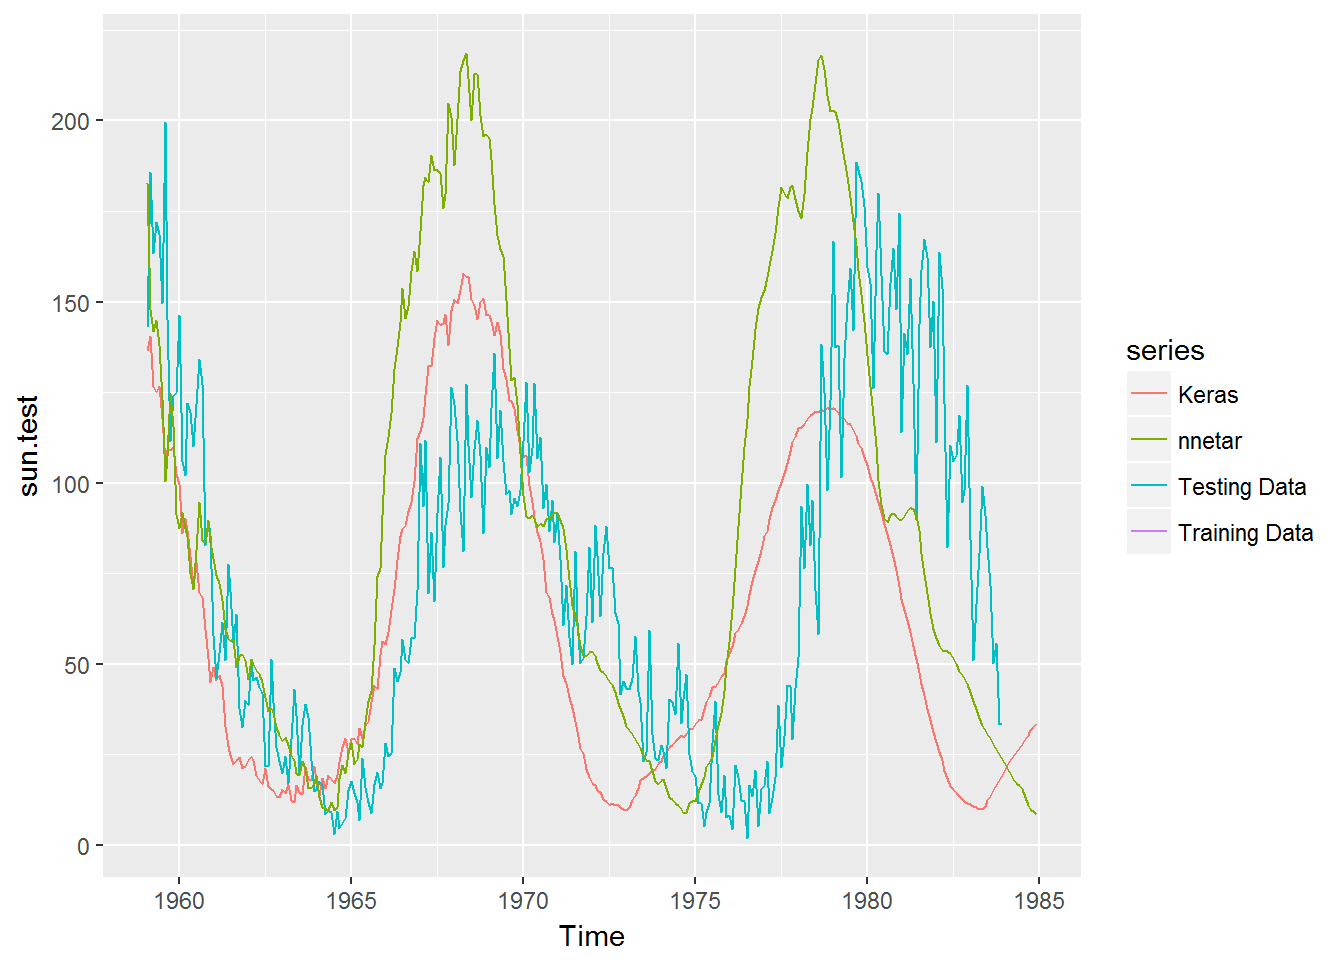
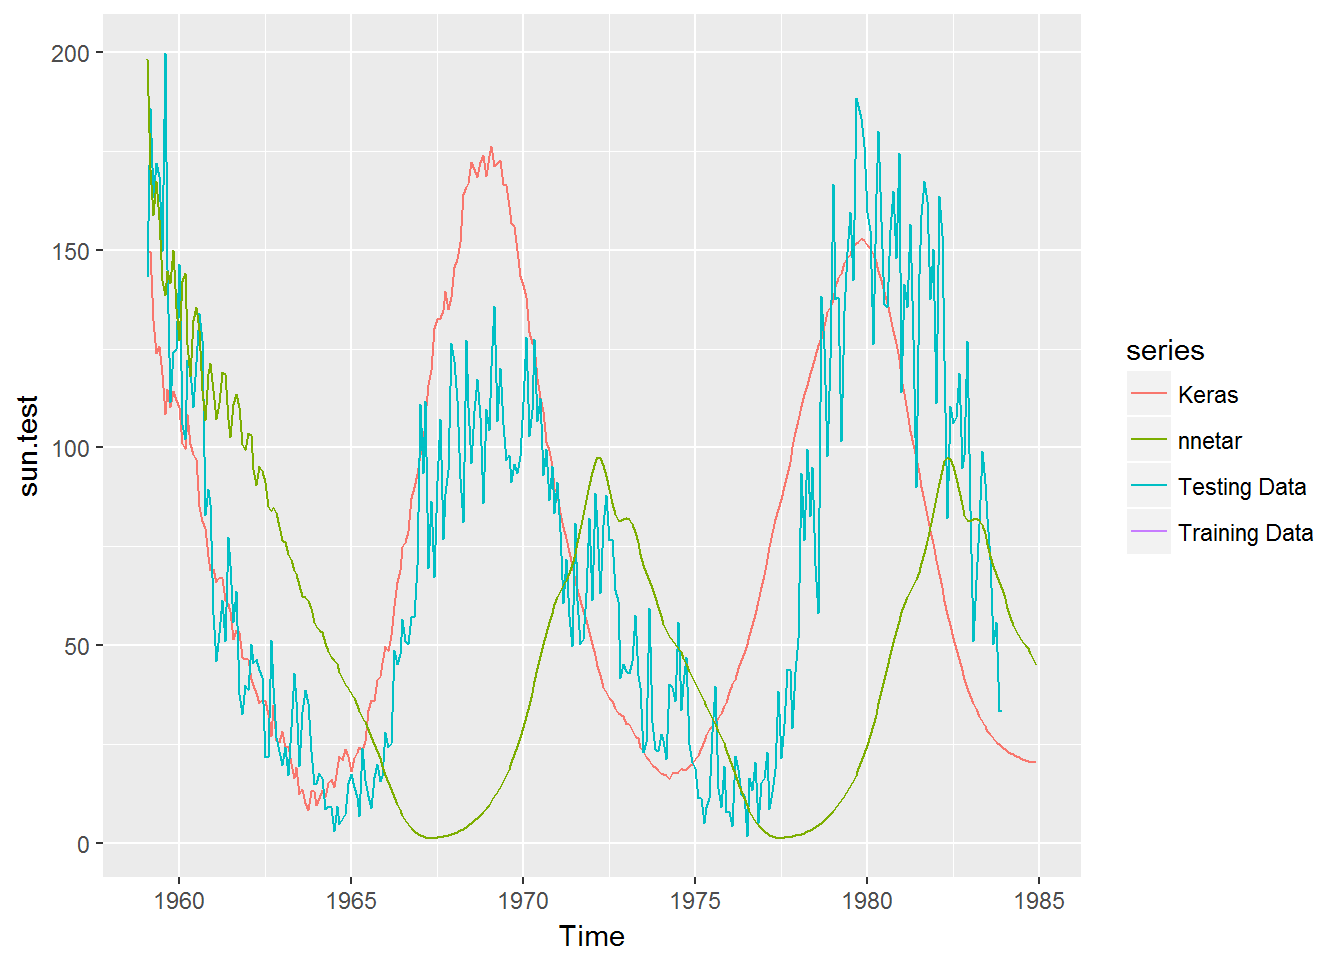
ts.keras 2

diff --git a/content/post/2018-06-06-auto-neural-networks-vs-manual-keras-lstm.html b/content/post/2018-06-06-auto-neural-networks-vs-manual-keras-lstm.html
@@ -24,20 +24,20 @@ tags:
 <h2>nnetar</h2>
 <p>We will use the following code to generate a forecast with <code>nnetar</code>:</p>
 <pre class="r"><code># Fitting nnetar model
-sun.fit.mlp &lt;- nnetar(sun.train, lambda = 1, P = 9)
+sun.fit.mlp &lt;- nnetar(sun.train, lambda = 1, P = 1)
 
 sun.fcst.mlp &lt;- forecast(sun.fit.mlp, h = 311)</code></pre>
 <p>(Note that it only takes 2 lines of code to generate this forecast!)</p>
 <p>Here are the model details:</p>
 <pre><code>## Series: sun.train 
-## Model:  NNAR(25,9,16)[12] 
-## Call:   nnetar(y = sun.train, P = 9, lambda = 1)
+## Model:  NNAR(25,1,13)[12] 
+## Call:   nnetar(y = sun.train, P = 1, lambda = 1)
 ## 
 ## Average of 20 networks, each of which is
-## a 32-16-1 network with 545 weights
+## a 25-13-1 network with 352 weights
 ## options were - linear output units 
 ## 
-## sigma^2 estimated as 123.6</code></pre>
+## sigma^2 estimated as 150.8</code></pre>
 </div>
 <div id="keras" class="section level2">
 <h2>Keras</h2>
@@ -63,6 +63,20 @@ model.keras %&gt;% compile(optimizer = &quot;rmsprop&quot;,
                   loss = &quot;mean_squared_error&quot;,
                   metrics = &quot;accuracy&quot;)</code></pre>
 <p>Step 3 - we can now attempt to train the model:</p>
+<pre class="r"><code># Model details
+model.keras</code></pre>
+<pre><code>## Model
+## ___________________________________________________________________________
+## Layer (type)                     Output Shape                  Param #     
+## ===========================================================================
+## dense_1 (Dense)                  (1, 64)                       9280        
+## ___________________________________________________________________________
+## dense_2 (Dense)                  (1, 1)                        65          
+## ===========================================================================
+## Total params: 9,345
+## Trainable params: 9,345
+## Non-trainable params: 0
+## ___________________________________________________________________________</code></pre>
 <p>Step 4 - we can now make predictions from the model:</p>
 <pre class="r"><code>## Predict based on last observed passenger number
 n &lt;- 311
@@ -110,4 +124,9 @@ for(i in 1:n){
 <h2>Results!</h2>
 <p>And the moment we have been waiting for… which model does a better job at making predictions?</p>
 <p><img src="/post/2018-06-06-auto-neural-networks-vs-manual-keras-lstm_files/figure-html/results-1.png" width="672" /></p>
+</div>
+<div id="conclusion" class="section level2">
+<h2>Conclusion</h2>
+<p>Total number of lines of code to generate a forecast with <code>nnetar</code>: 2 Total number of lines of code to generate a forecast with <code>Keras</code>: 116</p>
+<p>I’ll let you decide which one is worth it. I’ll likely run it through <code>nnetar</code> and depending on the results then decide if it’s worth going down the manual route. If nothing else, <code>nnetar</code> provides a nice baseline forecast to compare with.</p>
 </div>
